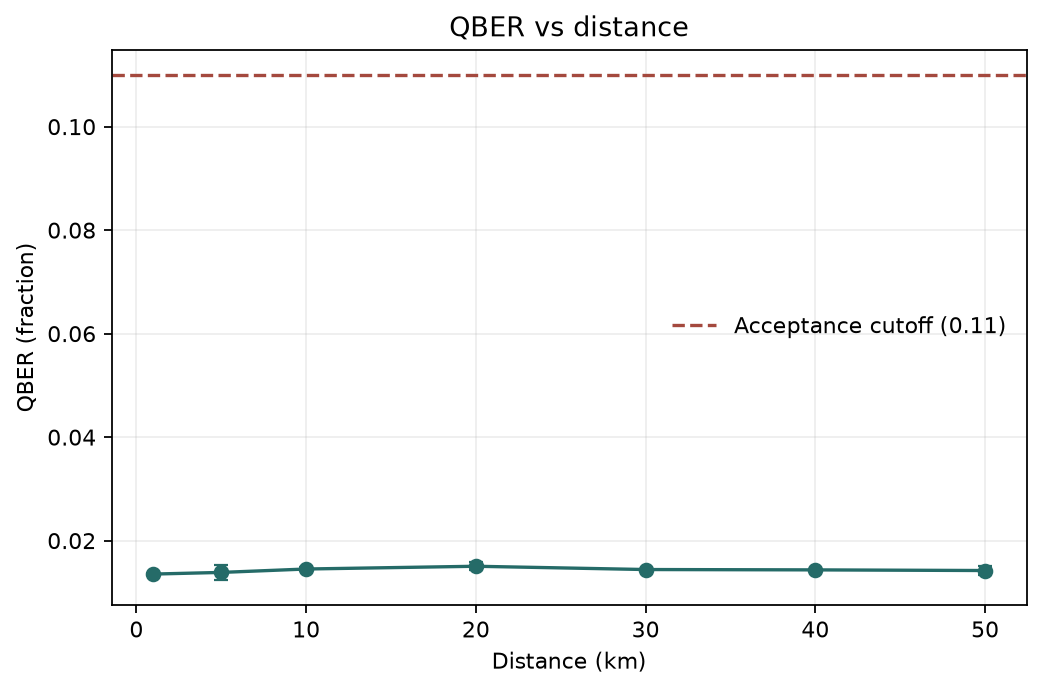
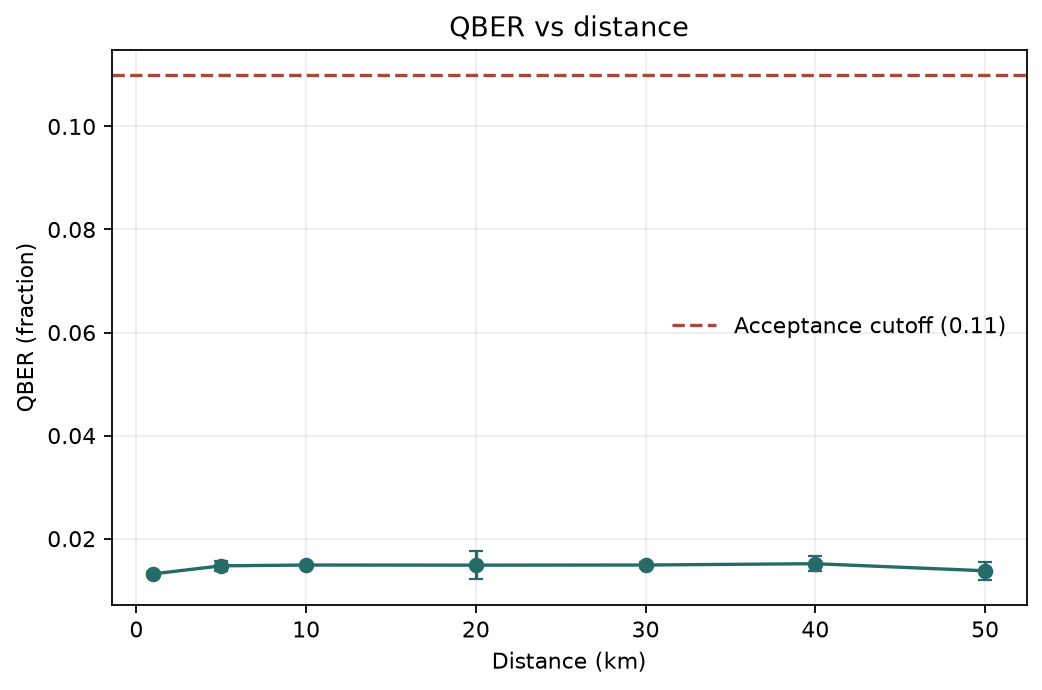
Correct sweep efficiency metrics and plots

diff --git a/experiments/plot_results.py b/experiments/plot_results.py
@@ -1,4 +1,4 @@
-"""Create experiment plots from run_sweeps.py summary CSV."""
+"""Create QBER, key-efficiency, inverse-efficiency and acceptance plots."""
 
 from __future__ import annotations
 
@@ -7,6 +7,11 @@ import csv
 from pathlib import Path
 
 QBER_LIMIT = 0.11
+SWEEPS = {
+    "distance": ("Distance (km)", "distance"),
+    "noise": ("Channel noise (fraction)", "noise"),
+    "eve": ("Eve intercept fraction", "Eve fraction"),
+}
 
 
 def make_plots(input_dir: Path, output_dir: Path) -> list[Path]:
@@ -20,11 +25,11 @@ def make_plots(input_dir: Path, output_dir: Path) -> list[Path]:
     summary_path = input_dir / "summary.csv"
     with summary_path.open(newline="", encoding="utf-8") as stream:
         rows = list(csv.DictReader(stream))
-    required = {"sweep", "parameter_value", "qber_mean", "qber_std", "qber_ci95_low",
-                "qber_ci95_high", "accepted_key_yield_bits_mean",
-                "accepted_key_yield_bits_ci95_low", "accepted_key_yield_bits_ci95_high",
-                "key_rate_bits_per_second_mean", "key_rate_bits_per_second_ci95_low",
-                "key_rate_bits_per_second_ci95_high"}
+    required = {"sweep", "parameter_value", "qber_mean", "qber_std", "qber_ci95_low", "qber_ci95_high",
+                "key_efficiency_bits_per_signal_mean", "key_efficiency_bits_per_signal_ci95_low",
+                "key_efficiency_bits_per_signal_ci95_high", "signals_per_key_bit_mean",
+                "signals_per_key_bit_ci95_low", "signals_per_key_bit_ci95_high", "acceptance_rate_mean",
+                "acceptance_rate_ci95_low", "acceptance_rate_ci95_high"}
     if not rows or not required.issubset(rows[0]):
         raise ValueError(f"{summary_path} is empty or missing required summary columns.")
     output_dir.mkdir(parents=True, exist_ok=True)
@@ -32,41 +37,43 @@ def make_plots(input_dir: Path, output_dir: Path) -> list[Path]:
                          "figure.dpi": 120, "savefig.dpi": 160})
     outputs: list[Path] = []
 
-    specs = [
-        ("distance", "qber_mean", "qber_std", "Distance (km)", "QBER (fraction)", "QBER vs distance", "qber_vs_distance.png", True),
-        ("noise", "qber_mean", "qber_std", "Channel noise (fraction)", "QBER (fraction)", "QBER vs channel noise", "qber_vs_noise.png", True),
-        ("eve", "qber_mean", "qber_std", "Eve intercept fraction", "QBER (fraction)", "QBER vs Eve intercept fraction", "qber_vs_eve.png", True),
-        ("distance", "accepted_key_yield_bits_mean", "accepted_key_yield_bits_ci95_low", "Distance (km)", "Accepted final key yield (bits/run)", "Accepted-key yield vs distance", "accepted_key_yield_vs_distance.png", False),
-        ("noise", "accepted_key_yield_bits_mean", "accepted_key_yield_bits_ci95_low", "Channel noise (fraction)", "Accepted final key yield (bits/run)", "Accepted-key yield vs channel noise", "accepted_key_yield_vs_noise.png", False),
-        ("eve", "accepted_key_yield_bits_mean", "accepted_key_yield_bits_ci95_low", "Eve intercept fraction", "Accepted final key yield (bits/run)", "Accepted-key yield vs Eve intercept fraction", "accepted_key_yield_vs_eve.png", False),
-        ("distance", "key_rate_bits_per_second_mean", "key_rate_bits_per_second_ci95_low", "Distance (km)", "Accepted final-key rate (bits/s)", "Accepted key rate vs distance", "key_rate_vs_distance.png", False),
-    ]
-    for sweep, metric, error, xlabel, ylabel, title, filename, qber in specs:
-        selected = sorted((row for row in rows if row["sweep"] == sweep), key=lambda row: float(row["parameter_value"]))
+    def draw(sweep: str, metric: str, low: str, high: str, ylabel: str, title: str,
+             filename: str, *, qber: bool = False, percent: bool = False) -> None:
+        selected = sorted((row for row in rows if row["sweep"] == sweep),
+                          key=lambda row: float(row["parameter_value"]))
+        # Inverse efficiency is undefined when no run at a point accepted key bits.
+        selected = [row for row in selected if row[metric] != "" and row[low] != "" and row[high] != ""]
         if not selected:
-            continue
+            return
         x = [float(row["parameter_value"]) for row in selected]
-        y = [float(row[metric]) for row in selected]
-        if qber:
-            errors = [float(row[error]) for row in selected]
-        else:
-            low_col = ("accepted_key_yield_bits_ci95_low" if metric.startswith("accepted_key")
-                       else "key_rate_bits_per_second_ci95_low")
-            high_col = ("accepted_key_yield_bits_ci95_high" if metric.startswith("accepted_key")
-                        else "key_rate_bits_per_second_ci95_high")
-            errors = [[max(0.0, value - float(row[low_col])) for value, row in zip(y, selected)],
-                      [max(0.0, float(row[high_col]) - value) for value, row in zip(y, selected)]]
+        scale = 100.0 if percent else 1.0
+        y = [float(row[metric]) * scale for row in selected]
+        lower = [max(0.0, (float(row[metric]) - float(row[low])) * scale) for row in selected]
+        upper = [max(0.0, (float(row[high]) - float(row[metric])) * scale) for row in selected]
         fig, ax = plt.subplots(figsize=(6.4, 4.2), constrained_layout=True)
-        ax.errorbar(x, y, yerr=errors, marker="o", capsize=3, linewidth=1.5, color="#256b68")
+        ax.errorbar(x, y, yerr=[lower, upper], marker="o", capsize=3, linewidth=1.5, color="#256b68")
         if qber:
             ax.axhline(QBER_LIMIT, linestyle="--", color="#a4493e", label=f"Acceptance cutoff ({QBER_LIMIT:.2f})")
             ax.legend(frameon=False)
-        ax.set(title=title, xlabel=xlabel, ylabel=ylabel)
+        ax.set(title=title, xlabel=SWEEPS[sweep][0], ylabel=ylabel)
         ax.grid(True, alpha=0.22)
         destination = output_dir / filename
         fig.savefig(destination, bbox_inches="tight")
         plt.close(fig)
         outputs.append(destination)
+
+    for sweep, (_, label) in SWEEPS.items():
+        draw(sweep, "qber_mean", "qber_ci95_low", "qber_ci95_high", "QBER (fraction)",
+             f"QBER vs {label}", f"qber_vs_{sweep}.png", qber=True)
+        draw(sweep, "key_efficiency_bits_per_signal_mean", "key_efficiency_bits_per_signal_ci95_low",
+             "key_efficiency_bits_per_signal_ci95_high", "Accepted final key bits per signal sent",
+             f"Key efficiency vs {label}", f"key_efficiency_vs_{sweep}.png")
+        draw(sweep, "signals_per_key_bit_mean", "signals_per_key_bit_ci95_low",
+             "signals_per_key_bit_ci95_high", "Signals sent per accepted key bit",
+             f"Signals needed per key bit vs {label}", f"signals_per_key_bit_vs_{sweep}.png")
+        draw(sweep, "acceptance_rate_mean", "acceptance_rate_ci95_low", "acceptance_rate_ci95_high",
+             "Accepted runs (%)", f"Acceptance rate vs {label}",
+             f"acceptance_rate_vs_{sweep}.png", percent=True)
     return outputs
 
 

diff --git a/experiments/run_sweeps.py b/experiments/run_sweeps.py
@@ -28,16 +28,18 @@ KEY_BITS = 256
 RUN_COLUMNS = [
     "sweep", "parameter", "parameter_value", "seed", "qber", "accepted",
     "raw_key_length_bits", "sifted_key_length_bits", "final_key_length_bits",
-    "accepted_key_yield_bits", "run_time_s", "signals_sent", "signals_intercepted",
+    "accepted_final_key_bits", "key_efficiency_bits_per_signal", "signals_per_key_bit",
+    "run_time_s", "signals_sent", "signals_intercepted",
     "qber_samples", "cascade_keys_generated", "matching_cascade_keys",
 ]
 SUMMARY_COLUMNS = [
-    "sweep", "parameter", "parameter_value", "runs", "acceptance_rate",
+    "sweep", "parameter", "parameter_value", "runs",
+    "acceptance_rate_mean", "acceptance_rate_std", "acceptance_rate_ci95_low", "acceptance_rate_ci95_high",
     "qber_mean", "qber_std", "qber_ci95_low", "qber_ci95_high",
-    "accepted_key_yield_bits_mean", "accepted_key_yield_bits_std",
-    "accepted_key_yield_bits_ci95_low", "accepted_key_yield_bits_ci95_high",
-    "key_rate_bits_per_second_mean", "key_rate_bits_per_second_std",
-    "key_rate_bits_per_second_ci95_low", "key_rate_bits_per_second_ci95_high",
+    "key_efficiency_bits_per_signal_mean", "key_efficiency_bits_per_signal_std",
+    "key_efficiency_bits_per_signal_ci95_low", "key_efficiency_bits_per_signal_ci95_high",
+    "signals_per_key_bit_mean", "signals_per_key_bit_std",
+    "signals_per_key_bit_ci95_low", "signals_per_key_bit_ci95_high",
     "run_time_s_mean",
 ]
 
@@ -75,6 +77,9 @@ def run_sweeps(seeds: int, out_dir: Path, *, quick: bool = False) -> tuple[Path,
                 matching_count = int(result.get("matching_cascade_keys", 0))
                 accepted = bool(result.get("accepted", False) and float(result["qber"]) < QBER_LIMIT)
                 final_bits = matching_count * KEY_BITS
+                signals_sent = int(result.get("signals_sent", 0))
+                accepted_bits = final_bits if accepted else 0
+                efficiency = accepted_bits / signals_sent if signals_sent else 0.0
                 row = {
                     "sweep": sweep,
                     "parameter": parameter,
@@ -86,9 +91,12 @@ def run_sweeps(seeds: int, out_dir: Path, *, quick: bool = False) -> tuple[Path,
                     "raw_key_length_bits": "",
                     "sifted_key_length_bits": "",
                     "final_key_length_bits": final_bits,
-                    "accepted_key_yield_bits": final_bits if accepted else 0,
+                    "accepted_final_key_bits": accepted_bits,
+                    "key_efficiency_bits_per_signal": efficiency,
+                    # Undefined when no key bits are accepted; CSV keeps this empty.
+                    "signals_per_key_bit": signals_sent / accepted_bits if accepted_bits else "",
                     "run_time_s": elapsed,
-                    "signals_sent": int(result.get("signals_sent", 0)),
+                    "signals_sent": signals_sent,
                     "signals_intercepted": int(result.get("signals_intercepted", 0)),
                     "qber_samples": int(result.get("qber_samples", 0)),
                     "cascade_keys_generated": int(result.get("cascade_keys_generated", 0)),
@@ -98,27 +106,26 @@ def run_sweeps(seeds: int, out_dir: Path, *, quick: bool = False) -> tuple[Path,
                 runs.append(row)
 
             qber_stats = _mean_std_ci([row["qber"] for row in observations])
-            yield_stats = _mean_std_ci([row["accepted_key_yield_bits"] for row in observations])
-            rate_stats = _mean_std_ci([
-                row["accepted_key_yield_bits"] / row["run_time_s"] if row["run_time_s"] else 0.0
-                for row in observations
-            ])
+            acceptance_stats = _mean_std_ci([float(row["accepted"]) for row in observations])
+            efficiency_stats = _mean_std_ci([row["key_efficiency_bits_per_signal"] for row in observations])
+            inverse_values = [float(row["signals_per_key_bit"]) for row in observations
+                              if row["signals_per_key_bit"] != ""]
+            inverse_stats = _mean_std_ci(inverse_values) if inverse_values else ("", "", "", "")
             summaries.append({
                 "sweep": sweep,
                 "parameter": parameter,
                 "parameter_value": value,
                 "runs": len(observations),
-                "acceptance_rate": statistics.mean(float(row["accepted"]) for row in observations),
+                "acceptance_rate_mean": acceptance_stats[0], "acceptance_rate_std": acceptance_stats[1],
+                "acceptance_rate_ci95_low": acceptance_stats[2], "acceptance_rate_ci95_high": acceptance_stats[3],
                 "qber_mean": qber_stats[0], "qber_std": qber_stats[1],
                 "qber_ci95_low": qber_stats[2], "qber_ci95_high": qber_stats[3],
-                "accepted_key_yield_bits_mean": yield_stats[0],
-                "accepted_key_yield_bits_std": yield_stats[1],
-                "accepted_key_yield_bits_ci95_low": yield_stats[2],
-                "accepted_key_yield_bits_ci95_high": yield_stats[3],
-                "key_rate_bits_per_second_mean": rate_stats[0],
-                "key_rate_bits_per_second_std": rate_stats[1],
-                "key_rate_bits_per_second_ci95_low": rate_stats[2],
-                "key_rate_bits_per_second_ci95_high": rate_stats[3],
+                "key_efficiency_bits_per_signal_mean": efficiency_stats[0],
+                "key_efficiency_bits_per_signal_std": efficiency_stats[1],
+                "key_efficiency_bits_per_signal_ci95_low": efficiency_stats[2],
+                "key_efficiency_bits_per_signal_ci95_high": efficiency_stats[3],
+                "signals_per_key_bit_mean": inverse_stats[0], "signals_per_key_bit_std": inverse_stats[1],
+                "signals_per_key_bit_ci95_low": inverse_stats[2], "signals_per_key_bit_ci95_high": inverse_stats[3],
                 "run_time_s_mean": statistics.mean(row["run_time_s"] for row in observations),
             })
 

diff --git a/tests/test_experiments.py b/tests/test_experiments.py
@@ -15,7 +15,9 @@ class ExperimentScriptTests(unittest.TestCase):
     @unittest.skipUnless(importlib.util.find_spec("matplotlib"), "install optional matplotlib to run plot check")
     def test_quick_sweeps_write_csvs_and_plot(self):
         def fake_run(settings, *, seed):
-            qber = min(0.2, settings.channel_noise + settings.eve_fraction * 0.1 + settings.distance_km / 1000)
+            qber = 0.12 if settings.eve_fraction >= 0.1 else min(
+                0.2, settings.channel_noise + settings.distance_km / 1000
+            )
             keys = 1 if qber < 0.11 else 0
             return {"qber": qber, "accepted": bool(keys), "matching_cascade_keys": keys,
                     "signals_sent": 100, "signals_intercepted": 0, "qber_samples": 50,
@@ -35,9 +37,18 @@ class ExperimentScriptTests(unittest.TestCase):
             self.assertEqual(len(raw), 6)
             self.assertEqual(len(summary), 6)
             self.assertTrue(all(row["raw_key_length_bits"] == "" for row in raw))
-            self.assertTrue(all(0.0 <= float(row["acceptance_rate"]) <= 1.0 for row in summary))
+            self.assertTrue(all(0.0 <= float(row["acceptance_rate_mean"]) <= 1.0 for row in summary))
+            rejected = next(row for row in raw if row["sweep"] == "eve" and row["parameter_value"] == "0.1")
+            self.assertEqual(rejected["accepted"], "False")
+            self.assertEqual(rejected["accepted_final_key_bits"], "0")
+            self.assertEqual(rejected["key_efficiency_bits_per_signal"], "0.0")
+            self.assertEqual(rejected["signals_per_key_bit"], "")
+            eve_rejected_summary = next(row for row in summary if row["sweep"] == "eve" and row["parameter_value"] == "0.1")
+            self.assertEqual(float(eve_rejected_summary["acceptance_rate_mean"]), 0.0)
+            self.assertEqual(eve_rejected_summary["signals_per_key_bit_mean"], "")
             plots = make_plots(out, out)
-            self.assertEqual(len(plots), 7)
+            self.assertEqual(len(plots), 12)
+            self.assertFalse(any("yield" in path.name or "key_rate" in path.name for path in plots))
             self.assertTrue(all(path.is_file() and path.stat().st_size > 0 for path in plots))
         finally:
             shutil.rmtree(out, ignore_errors=True)

diff --git a/docs/EXPERIMENTS.md b/docs/EXPERIMENTS.md
@@ -23,17 +23,17 @@ Run the full sweep (20 seeds at each of 20 parameter points, 400 simulator runs 
 
 The script calls `run_sequence_bb84` directly. It varies distance (1, 5, 10, 20, 30, 40, 50 km), noise (0, 0.01, 0.02, 0.05, 0.08, 0.11, 0.15), or Eve intercept fraction (0, 0.1, 0.25, 0.5, 0.75, 1.0), holding the other settings at the `LinkSettings` defaults. The simulator's acceptance rule is QBER below 0.11 and at least one matching Cascade key.
 
-The checked-in `experiments/results` dataset is a two-seed pilot across all 20 points (`--seeds 2`), not a completed default 20-seed sweep. In that pilot, the 40 SeQUeNCe runs accumulated 1,213 seconds (about 20 minutes 13 seconds) of measured simulation-call runtime. At that pilot's mean of 30.3 seconds per call, the default 400-run sweep is estimated at about 3 hours 22 minutes of simulator-call time; actual wall time will depend on the machine and run settings.
+The regenerated two-seed pilot took 575.4 seconds (about 9 minutes 35 seconds) for 40 SeQUeNCe calls, averaging 14.38 seconds per call. At that rate, the default 400-run sweep is estimated at about 1 hour 36 minutes of simulator-call time; actual wall time varies by machine and settings. The full 20-seed sweep was not run for this update.
 
-`runs.csv` contains one row per simulator run, including seed, QBER, accepted flag, final matching-key length, accepted-key yield, simulator signals, and wall-clock time. The current simulator does not expose raw or sifted key lengths, so those columns are empty rather than inferred. Final length is matching Cascade keys × 256 bits; accepted-key yield is zero for a rejected run. `summary.csv` has one row per parameter point with the mean, sample standard deviation, approximate normal 95% confidence interval for QBER, accepted-key yield and key rate, plus acceptance rate and mean runtime. The intervals use 1.96 × standard error (and are descriptive for this finite seed count).
+`runs.csv` contains one row per simulator run, including seed, QBER, acceptance, final matching-key length, accepted final key bits, `signals_sent`, and simulator wall-clock runtime. The simulator does not expose raw or sifted bit counts, so those columns are empty rather than inferred. Final key length is matching Cascade keys × 256 bits. Rejected runs contribute zero accepted final key bits and therefore zero key efficiency. Key efficiency is accepted final key bits divided by `signals_sent` (accepted final key bits per signal). Its inverse, signals needed per accepted key bit, is undefined and left blank on rejected runs. `summary.csv` reports the mean, sample standard deviation, and approximate normal 95% confidence interval for QBER, key efficiency, inverse efficiency (using only runs with accepted bits), and acceptance rate. Intervals use 1.96 × standard error and are descriptive for this finite seed count. Simulator runtime is recorded only as a compute-time diagnostic; it is not used as a key-rate metric.
 
-Produce seven error-bar plots (three QBER, three accepted-key yield, and key rate versus distance):
+Produce twelve error-bar plots: three QBER, three key-efficiency, three signals-needed-per-key-bit, and three acceptance-rate plots. The inverse-efficiency plot omits parameter points with no accepted keys because the inverse is undefined there.
 
 ```powershell
 .\.venv\Scripts\python.exe experiments\plot_results.py --input experiments\results --out experiments\results
 ```
 
-The QBER plots show the 0.11 acceptance cutoff. Accepted-key-yield and key-rate plots use the summary's 95% confidence intervals as error bars.
+The QBER plots show the 0.11 acceptance cutoff. The plots use the summary's 95% confidence intervals as error bars; acceptance rate is shown as a percentage.
 
 ## Network latency benchmark
 
@@ -49,10 +49,10 @@ The benchmark checks the live coordinator, picks the shortest available configur
 
 ## Observed trends
 
-These observations are from the two-seed full-parameter pilot in this repository's `experiments/results` directory. Two seeds are too few to establish stable statistical conclusions.
+These observations are from the regenerated two-seed pilot in `experiments/results`. Two seeds per parameter point are too few to establish stable statistical conclusions.
 
-- **Distance:** Mean QBER stayed between 0.0135 and 0.0151 from 1–50 km, with all 14 pilot runs accepted. It did not rise monotonically in this small sample.
-- **Noise and Eve:** Mean QBER increased across the noise points from 0.0097 at 0 noise to 0.0827 at 0.15 noise; acceptance was 50% at 0.15 because acceptance also requires a matching Cascade key. Mean Eve QBER rose from 0.0149 at zero interception to 0.2548 at full interception; the pilot's acceptance rate was 100% through 0.25 Eve fraction and 0% from 0.5 through 1.0.
-- **Yield and rate:** Distance runs each yielded 10,240 accepted final key bits in this pilot, while mean estimated key rate fell from about 597 bits/s at 1 km to 127 bits/s at 50 km as runtime increased. The noise and Eve yield plots also reflect the acceptance gate; rejected trials contribute zero accepted-key yield.
+- **Distance:** Mean QBER ranged from 0.0132 to 0.0151 across 1–50 km and did not rise steadily. QBER stays roughly flat with distance in this model while signals needed per key bit rises, from about 11.91 at 1 km to 53.44 at 50 km.
+- **Noise:** Mean QBER increased from 0.0099 at zero noise to 0.0814 at noise 0.15. All runs remained accepted in this pilot, and measured key efficiency stayed about 0.072 accepted bits per signal across the noise points.
+- **Eve:** Mean QBER increased from 0.0146 with no interception to 0.2579 at full interception. All runs were accepted through Eve fraction 0.25, while none were accepted at fractions 0.5 and above; inverse efficiency is undefined at those points.
 
 All results come from the project's SeQUeNCe-based simulation, not photon hardware. They illustrate the behavior of this model and are not measurements or predictions of real QKD hardware performance. The network latency benchmark has not been run for the checked-in dataset; its output files are created only when run against a live local topology. Any reported network timings are localhost prototype measurements, not production network benchmarks.
